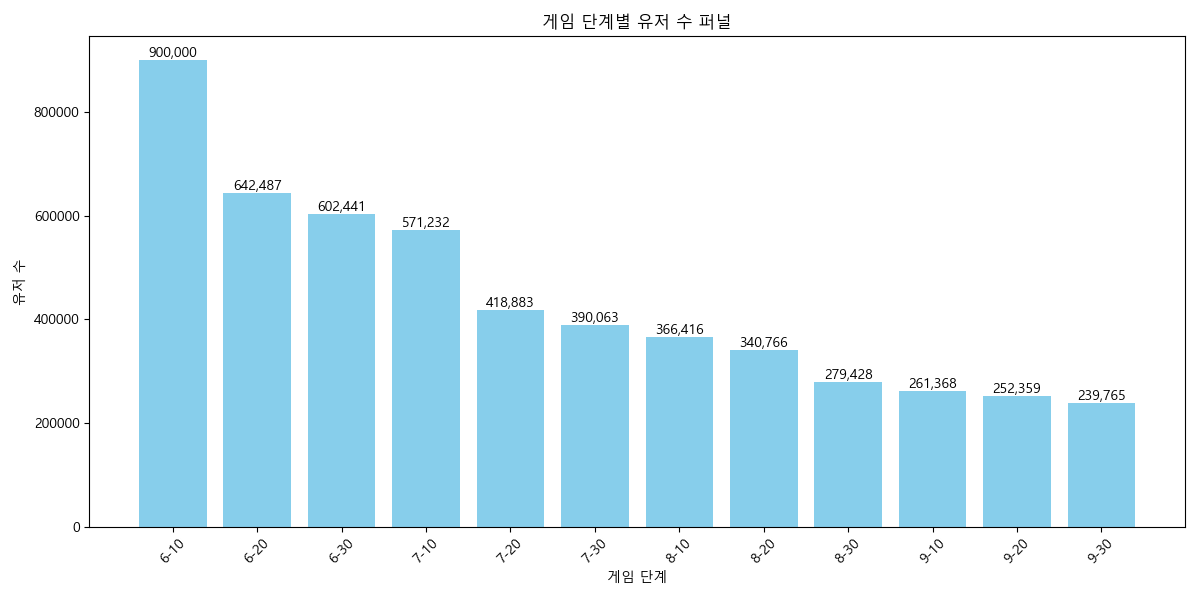
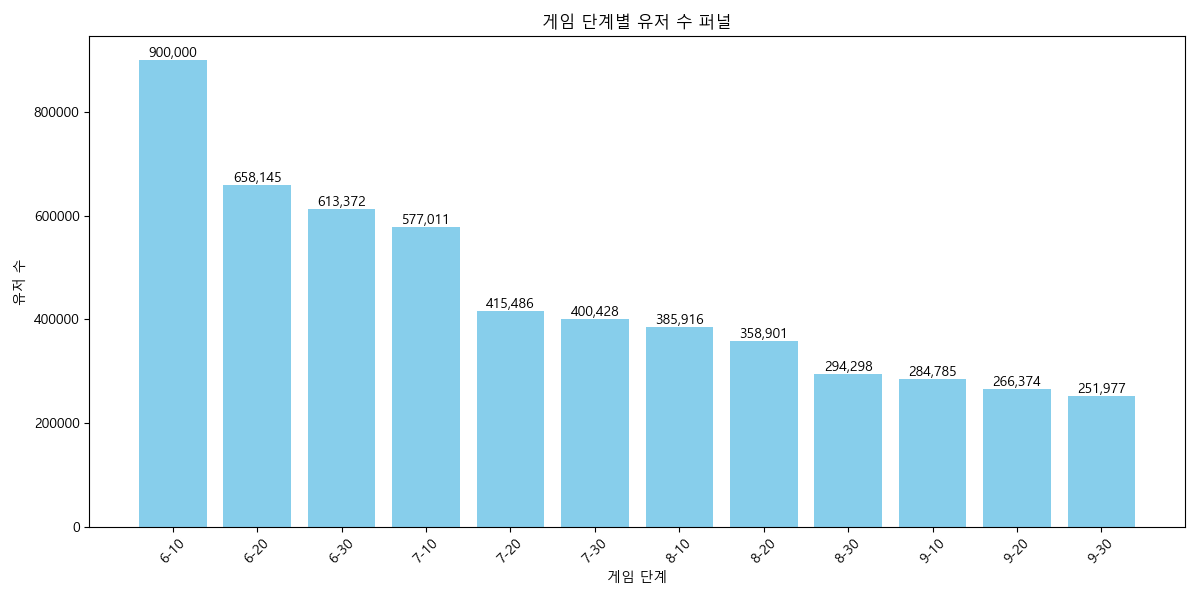
Fix the Random Seed & Export the Data

diff --git a/projects/SevenKnights/data_generation/churning_data.py b/projects/SevenKnights/data_generation/churning_data.py
@@ -3,6 +3,9 @@ import numpy as np
 import matplotlib.pyplot as plt
 import seaborn as sns
 from datetime import datetime, timedelta
+import json
+
+np.random.seed(42)
 
 # 한글 폰트 설정
 plt.rcParams['font.family'] = 'Malgun Gothic'
@@ -71,4 +74,14 @@ for i, v in enumerate(df['churn_rate'][1:]):
 plt.grid(True, linestyle='--', alpha=0.7)
 plt.tight_layout()
 plt.savefig('churn_rate_visualization.png')
-plt.close() 
+plt.close()
+
+# 단계별 이탈/통과 유저 수 저장
+churn_info = {}
+for i in range(1, len(stages)):
+    churned = users[i-1] - users[i]
+    passed = users[i]
+    churn_info[stages[i]] = {'churned': int(churned), 'passed': int(passed)}
+
+with open('churn_user_counts.json', 'w', encoding='utf-8') as f:
+    json.dump(churn_info, f, ensure_ascii=False, indent=2) 
